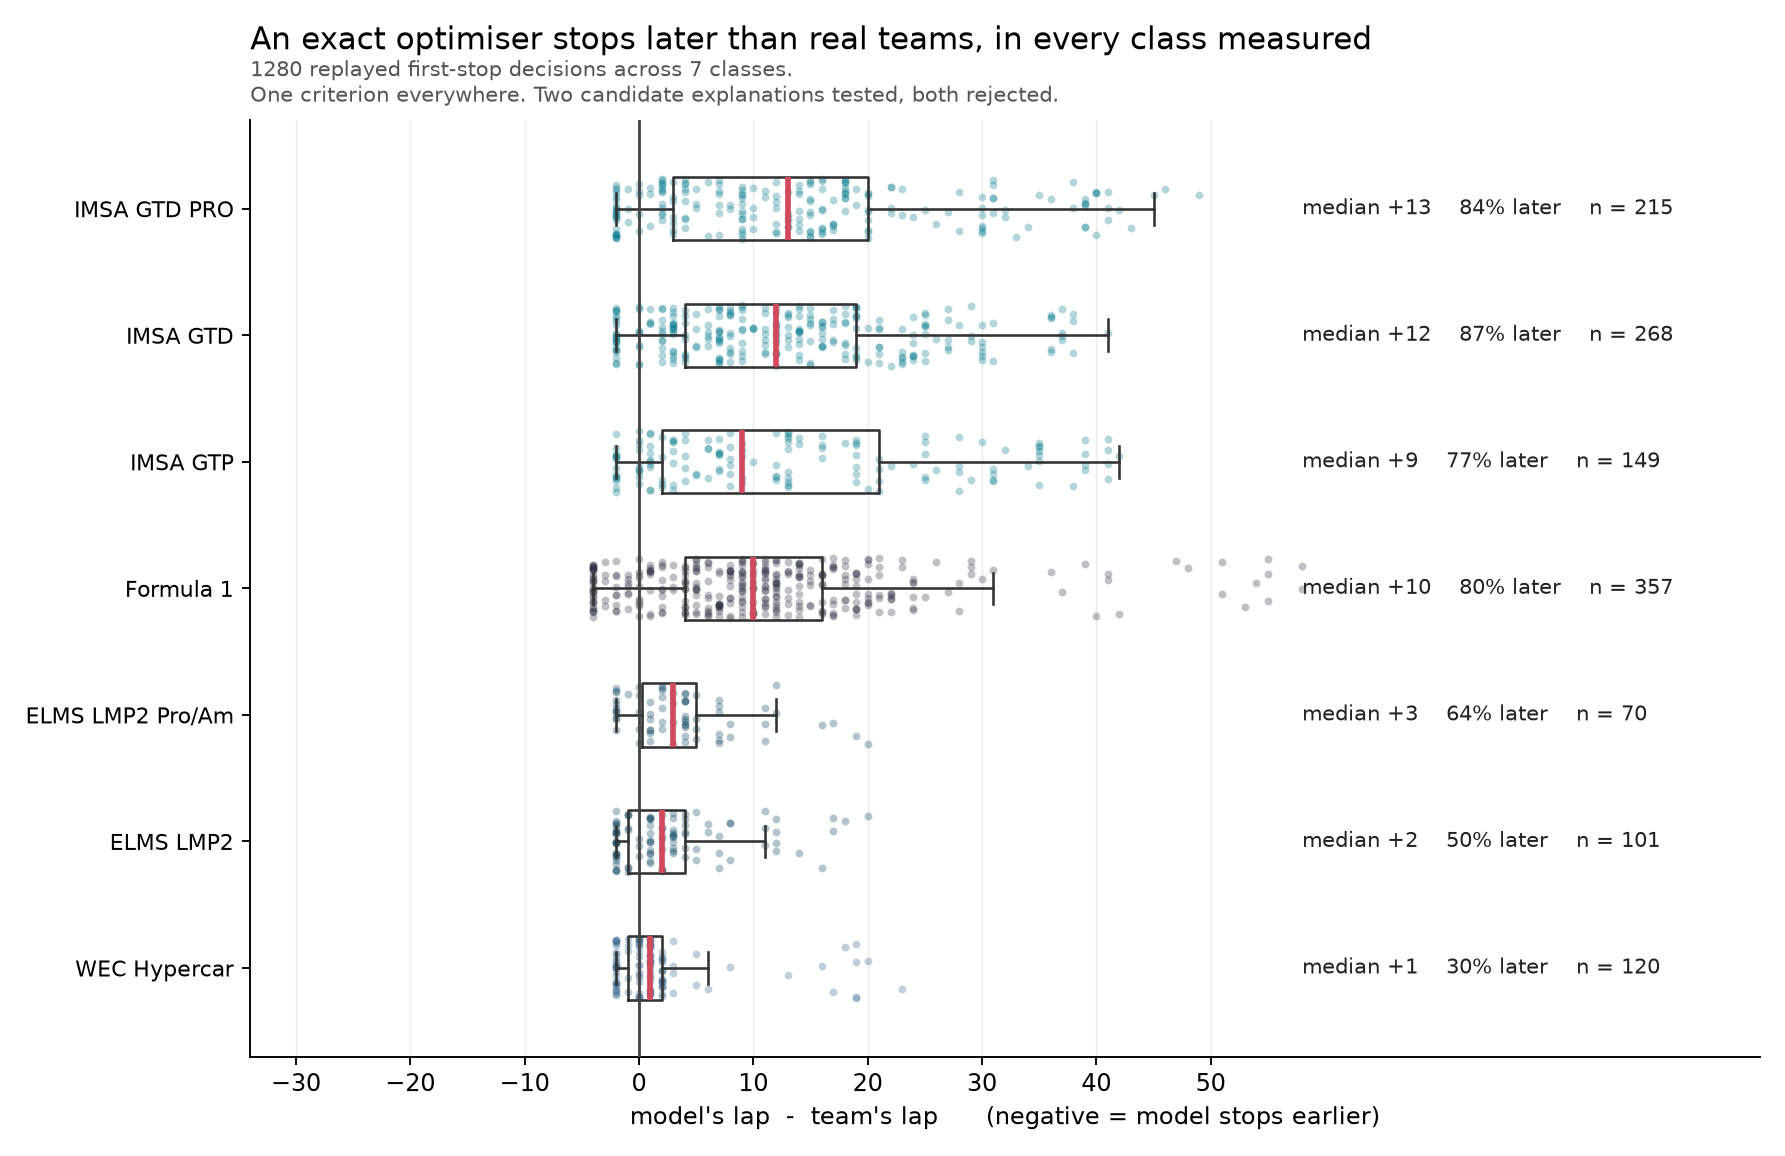
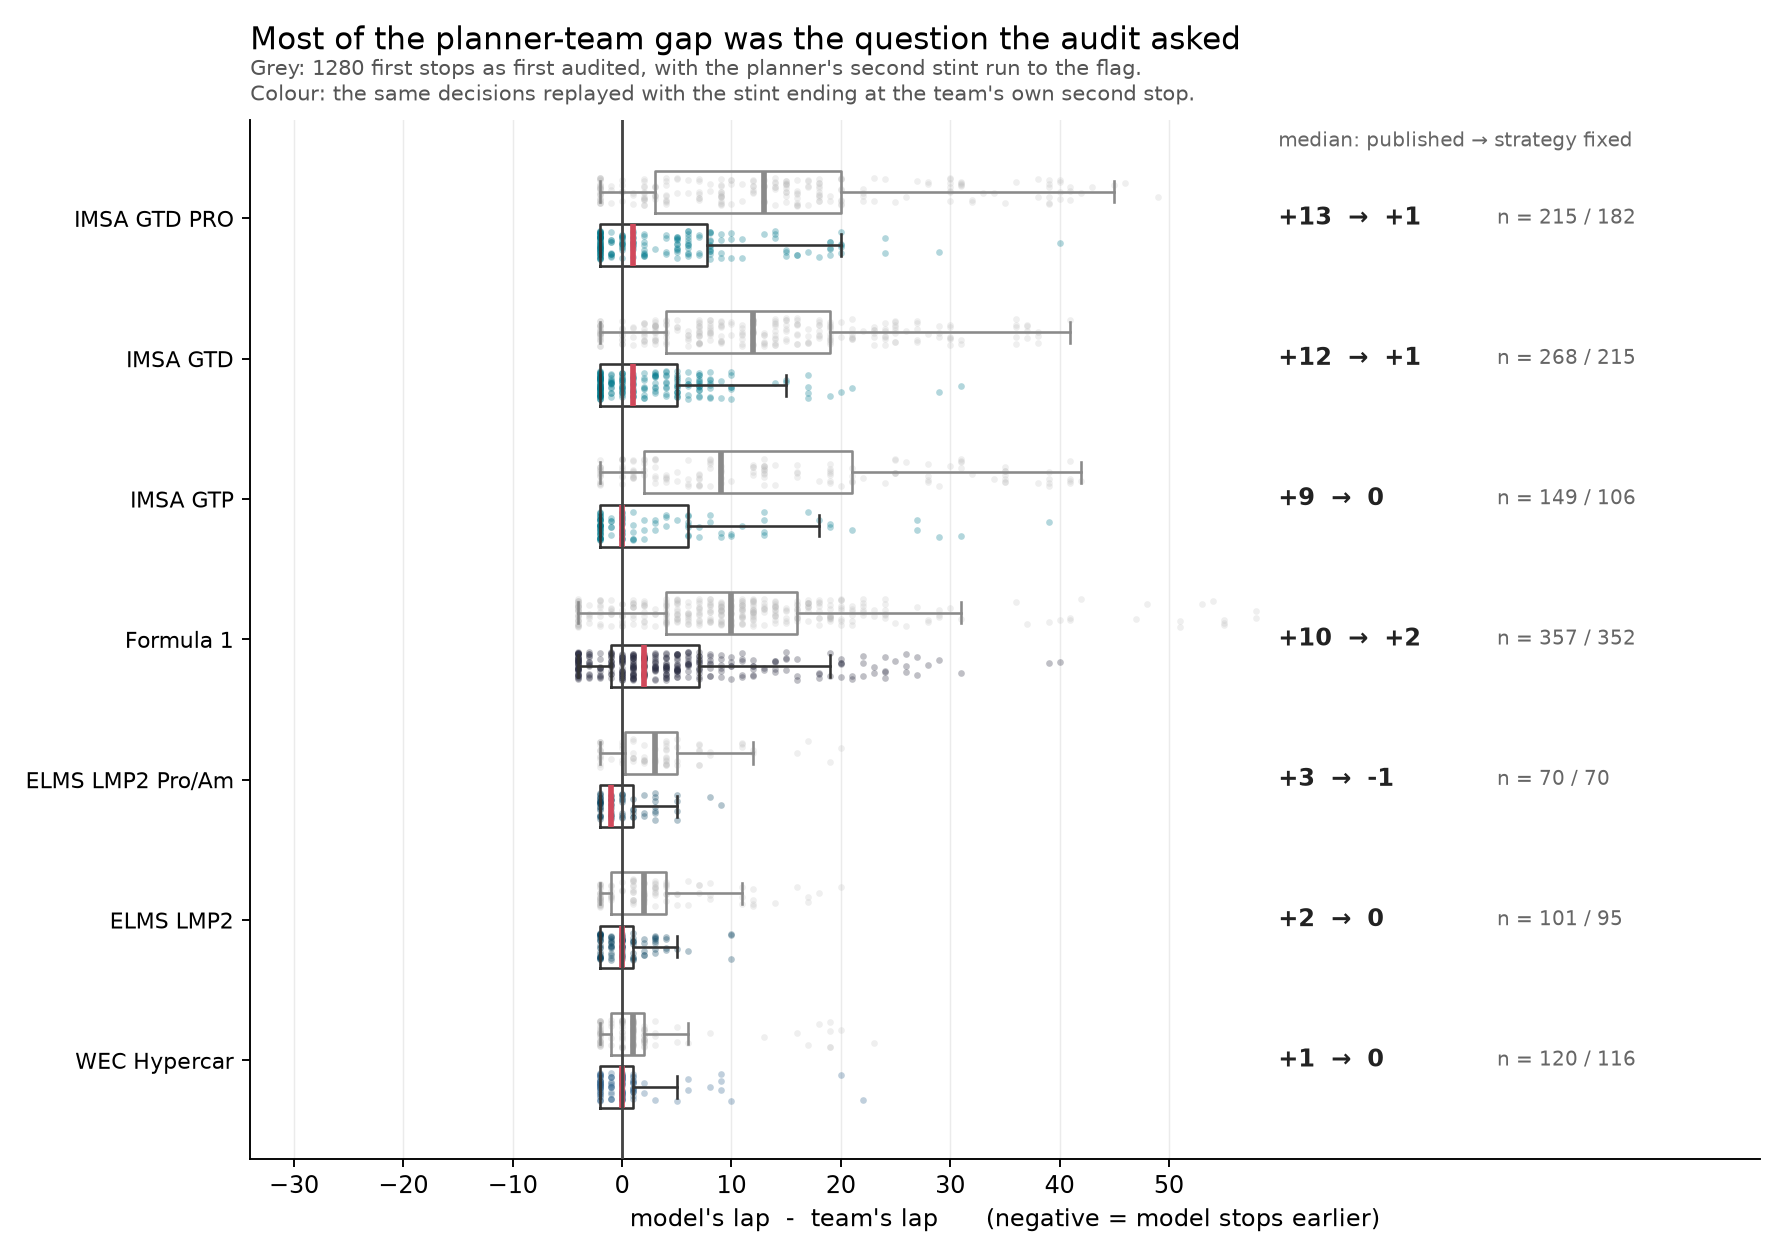
figure: show Result 3 as first audited and with each team's strategy fixed
The only figure for Result 3 still showed the gap as first measured, titled
"an exact optimiser stops later than real teams", while the text now says
most of that gap was the audit running the planner's second stint to the
flag. Each class now has two rows: the first-run distribution in grey and the
committed-strategy replay in colour, with both medians beside them (F1 +10 to
+2, IMSA GTD +12 to +1, GTD PRO +13 to +1). The caption says which decisions
each row covers. The site's alt text follows.

The drift check also stops failing on PNGs whose bytes changed but whose
pixels did not: Pillow compresses with zlib-ng, which packs the same image
differently on different CPUs.

diff --git a/docs/index.html b/docs/index.html
@@ -162,7 +162,7 @@
       laps early, given the state as it was, and its recommendation compared to
       the lap the team chose.</p>
     <figure>
-      <img src="figures/r3_audit_bias.png" alt="Distribution of model lap minus team lap per series: IMSA median +12, F1 +10, ELMS +2, WEC +1.">
+      <img src="figures/r3_audit_bias.png" alt="Model lap minus team lap per class, as first audited and with each team's next stop held fixed: F1 median +10 falls to +2, IMSA GTD +12 to +1, IMSA GTD PRO +13 to +1.">
       <figcaption>1,280 replayed decisions, four championships, one criterion.</figcaption>
     </figure>
     <div class="cols two">

diff --git a/scripts/make_headline_figures.py b/scripts/make_headline_figures.py
@@ -235,34 +235,47 @@ def r2_pit_loss_rule() -> str:
             f"n={len(plans)})")
 
 
+def _signed(x: float) -> str:
+    """A median for a label: "+2", "-1", and a plain "0" rather than "+0"."""
+    text = f"{x:+.0f}"
+    return "0" if text in ("+0", "-0") else text
+
+
 def r3_audit_bias() -> str:
-    """An optimiser stops later than teams do, in every class measured.
+    """The planner-team gap, as published and with each team's strategy fixed.
 
-    Split by **class**, not by series. IMSA runs GTP, GTD and GTD PRO at the
-    same rounds with pit losses of 57, 24 and 40 seconds; pooling their 632
-    decisions into one IMSA row averages three different strategy regimes into
-    a number describing none of them. The first version of this figure did
-    exactly that, and it is the same mistake the project refuses to make
-    everywhere else — the class is the unit, and a figure is not exempt.
+    Split by **class**, not by series: IMSA runs GTP, GTD and GTD PRO at the
+    same rounds with very different pit losses, and pooling them would average
+    three strategy regimes into a number describing none of them.
 
-    The championship pattern survives the split and is easier to see for it:
-    rows are grouped and coloured by series, so the caution-rate story reads
-    down the axis while each class keeps its own row.
+    Each class gets two rows. The upper, grey one is the audit as first run: a
+    single-next-stop engine that runs the stint after its stop to the flag. The
+    lower, coloured one replays the same decisions with the stint ending at the
+    team's own second stop (scripts/run_committed_strategy*.py). The figure has
+    to show both, because the text now says most of the first was the question
+    the audit asked; a figure showing only the first would contradict it.
     """
     f1 = pd.read_csv(F1_DERIVED_DIR / "systematic_audit.csv")
     endurance = pd.read_csv(ENDURANCE_DERIVED_DIR / "systematic_audit.csv")
+    f1_commit = pd.read_csv(F1_DERIVED_DIR / "committed_strategy.csv")
+    end_commit = pd.read_csv(ENDURANCE_DERIVED_DIR / "committed_strategy.csv")
 
-    groups: list[tuple[str, str, pd.Series]] = [("F1", "Formula 1", f1["delta_laps"])]
+    def committed(frame: pd.DataFrame) -> pd.Series:
+        return frame["committed_delta_laps"].dropna().astype(float)
+
+    groups: list[tuple[str, str, pd.Series, pd.Series]] = [
+        ("F1", "Formula 1", f1["delta_laps"], committed(f1_commit))
+    ]
     for (series, car_class), group in endurance.groupby(["series", "car_class"]):
+        mask = (end_commit["series"] == series) & (end_commit["car_class"] == car_class)
         groups.append((
             str(series).upper(),
             f"{str(series).upper()} {class_name(str(car_class))}",
             group["delta_laps"],
+            committed(end_commit[mask]),
         ))
-    # Within a championship, order by disagreement; championships themselves
-    # by their median, so the caution-rate ordering stays legible.
-    series_median = {}
-    for series, _, deltas in groups:
+    series_median: dict[str, list[float]] = {}
+    for series, _, deltas, _ in groups:
         series_median.setdefault(series, []).append(deltas.median())
     groups.sort(key=lambda g: (
         sum(series_median[g[0]]) / len(series_median[g[0]]), g[2].median()
@@ -270,48 +283,58 @@ def r3_audit_bias() -> str:
 
     series_colour = {"F1": "#2b2d42", "WEC": "#30638e",
                      "ELMS": "#003d5b", "IMSA": "#00798c"}
+    grey = "#b8b8b8"
 
-    fig, ax = plt.subplots(figsize=(10.5, 6.8))
-    ax.set_xlim(-34, 98)
-    rng = np.random.default_rng(20260904)
-    for position, (series, label, deltas) in enumerate(groups):
-        colour = series_colour.get(series, "#666666")
-        ax.scatter(
-            deltas, position + rng.uniform(-0.24, 0.24, len(deltas)),
-            s=11, alpha=0.30, color=colour, linewidth=0, zorder=2,
-        )
+    def box(ax, values, y, colour, median_colour):
         ax.boxplot(
-            [deltas], positions=[position], vert=False, widths=0.5,
-            showfliers=False, medianprops={"color": "#d1495b", "linewidth": 2.4},
-            boxprops={"color": "#333333", "linewidth": 1.1},
-            whiskerprops={"color": "#333333", "linewidth": 1.1},
-            capprops={"color": "#333333", "linewidth": 1.1},
+            [values], positions=[y], vert=False, widths=0.30,
+            showfliers=False,
+            medianprops={"color": median_colour, "linewidth": 2.4},
+            boxprops={"color": colour, "linewidth": 1.1},
+            whiskerprops={"color": colour, "linewidth": 1.1},
+            capprops={"color": colour, "linewidth": 1.1},
             zorder=3,
         )
-        # The audit calls a one-lap disagreement an agreement, so "later" uses
-        # the same bar rather than delta > 0.
-        later = (deltas > 1).mean() * 100
+
+    fig, ax = plt.subplots(figsize=(10.5, 7.4))
+    ax.set_xlim(-34, 104)
+    rng = np.random.default_rng(20260904)
+    for position, (series, label, published, held) in enumerate(groups):
+        colour = series_colour.get(series, "#666666")
+        upper, lower = position + 0.19, position - 0.19
+        ax.scatter(published, upper + rng.uniform(-0.10, 0.10, len(published)),
+                   s=8, alpha=0.22, color=grey, linewidth=0, zorder=2)
+        ax.scatter(held, lower + rng.uniform(-0.10, 0.10, len(held)),
+                   s=8, alpha=0.30, color=colour, linewidth=0, zorder=2)
+        box(ax, published, upper, "#8a8a8a", "#8a8a8a")
+        box(ax, held, lower, "#333333", "#d1495b")
         ax.annotate(
-            f"median {deltas.median():+.0f}    {later:.0f}% later    "
-            f"n = {len(deltas)}",
-            (58, position), fontsize=9, va="center", color=INK,
+            f"{_signed(published.median())}  \u2192  {_signed(held.median())}",
+            (60, position), fontsize=10, va="center", color=INK,
+            fontweight="bold",
+        )
+        ax.annotate(
+            f"n = {len(published)} / {len(held)}",
+            (80, position), fontsize=8.5, va="center", color=MUTED,
         )
 
     ax.axvline(0, color="#444444", linewidth=1.2, zorder=4)
     ax.set_yticks(range(len(groups)))
-    ax.set_yticklabels([label for _, label, _ in groups], fontsize=9.5)
+    ax.set_yticklabels([label for _, label, _, _ in groups], fontsize=9.5)
     ax.set_ylim(-0.7, len(groups) - 0.3)
     ax.set_xticks([-30, -20, -10, 0, 10, 20, 30, 40, 50])
     ax.set_xlabel("model's lap  -  team's lap      (negative = model stops earlier)")
-    total = sum(len(deltas) for _, _, deltas in groups)
+    ax.text(60, len(groups) - 0.45, "median: published \u2192 strategy fixed",
+            fontsize=8.5, color=MUTED, va="center")
+    total = sum(len(p) for _, _, p, _ in groups)
     ax.set_title(
-        "An exact optimiser stops later than real teams, in every class measured",
+        "Most of the planner-team gap was the question the audit asked",
         fontsize=13, pad=30, loc="left",
     )
     _caption(ax,
-             f"{total} replayed first-stop decisions across {len(groups)} "
-             "classes.\nOne criterion everywhere. Two candidate explanations "
-             "tested, both rejected.")
+             f"Grey: {total} first stops as first audited, with the planner's "
+             "second stint run to the flag.\nColour: the same decisions "
+             "replayed with the stint ending at the team's own second stop.")
     _style(ax)
 
     path = FIGURES / "r3_audit_bias.png"

diff --git a/.github/scripts/restore_identical_images.py b/.github/scripts/restore_identical_images.py
@@ -1,0 +1,48 @@
+"""Put back modified PNGs whose pixels are identical to the committed ones.
+
+Pillow's wheels compress with zlib-ng, which picks a different match finder
+on different CPUs, so the same figure can encode to different bytes on two
+runners while every pixel is the same. A byte comparison then reports drift
+in a figure nobody changed. This decodes both versions and restores the
+committed file when the images match exactly, so the drift check compares
+what a reader sees rather than how the compressor happened to pack it. Any
+pixel that differs leaves the file modified, and the check fails as before.
+"""
+
+from __future__ import annotations
+
+import io
+import subprocess
+import sys
+
+import numpy as np
+from PIL import Image
+
+
+def _pixels(data: bytes) -> np.ndarray:
+    with Image.open(io.BytesIO(data)) as image:
+        return np.asarray(image.convert("RGBA"))
+
+
+def main() -> int:
+    changed = subprocess.run(
+        ["git", "diff", "--name-only", "--", "*.png"],
+        check=True, capture_output=True, text=True,
+    ).stdout.split()
+    restored = 0
+    for path in changed:
+        committed = subprocess.run(
+            ["git", "show", f"HEAD:{path}"], check=True, capture_output=True,
+        ).stdout
+        with open(path, "rb") as handle:
+            current = handle.read()
+        a, b = _pixels(committed), _pixels(current)
+        if a.shape == b.shape and np.array_equal(a, b):
+            subprocess.run(["git", "checkout", "--", path], check=True)
+            restored += 1
+    print(f"{restored} of {len(changed)} changed PNGs were byte-only differences; restored.")
+    return 0
+
+
+if __name__ == "__main__":
+    sys.exit(main())

diff --git a/paper/main.tex b/paper/main.tex
@@ -649,8 +649,13 @@ the flag in races where the team was going to stop again
 \begin{figure}[htbp]
 \centering
 \includegraphics[width=\textwidth]{r3_audit_bias.png}
-\caption{Model lap minus team lap, \NDecisions{} replayed first stops. Box shows
-quartiles; the cloud behind it is the sample.}
+\caption{Model lap minus team lap, \NDecisions{} replayed first stops. Grey:
+the audit as first run, with the planner's second stint run to the flag.
+Colour: the same decisions replayed with the stint ending at the team's own
+second stop (Section~\ref{sec:committed}). In Formula~1 a one-stop decision
+keeps its first-run value; in endurance only decisions with a later stop can be
+replayed, hence the smaller counts. Boxes show quartiles; the cloud behind each
+is the sample.}
 \label{fig:audit}
 \end{figure}
 
